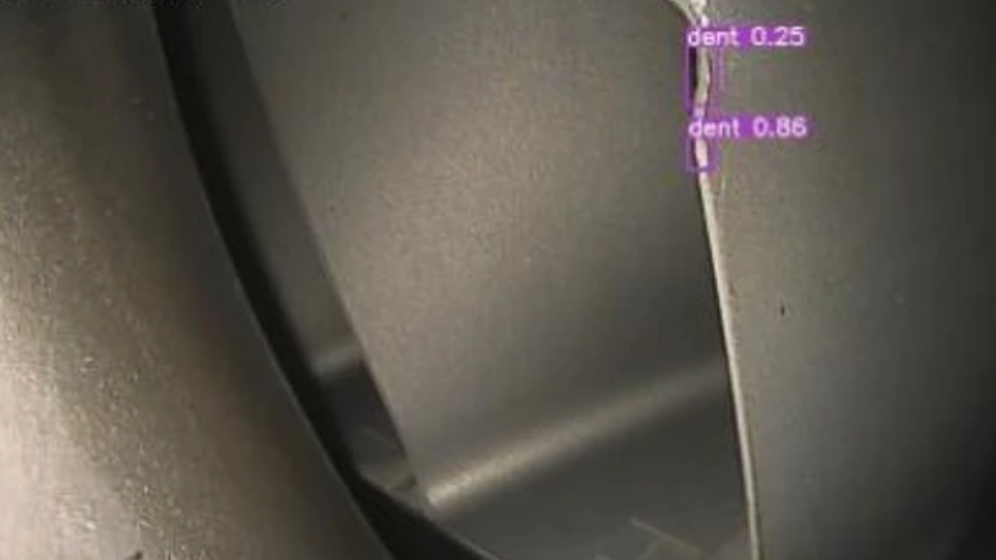
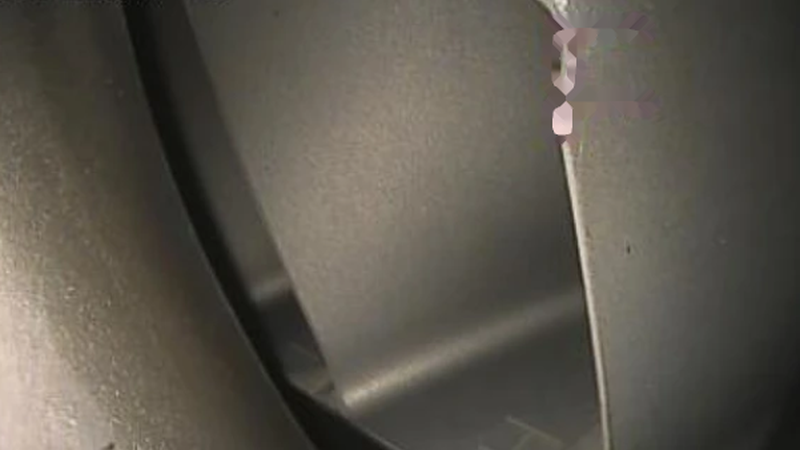
fix: 탐지 박스 제거 · 이상없음 사진 추가 · 옛 외판 사진 삭제
[1] 원본의 탐지 박스·라벨 제거
- 박스는 해당 논문 모델의 출력이지 우리 시스템 결과가 아니다. 그대로 두면 오해를 준다.
- 색 규칙(초록/보라/청록/살구)으로 검출해 주변 픽셀로 메웠다.
- corrosion-1 은 박스 색이 배경 갈색과 가까워 희미한 윤곽이 남았다. 더 지우면 사진이 뭉개진다.
- 원본이 600x440 이라 996 으로 늘리면 흐려져 800x450 으로 조정.

[2] 이상없음 = 결함 없는 블레이드 사진 (normal-1)
- AeBAD good 클래스. 결함을 읽을 필요가 없어 이 데이터셋으로 충분하다.
- DEFECT_KEY 에 '이상없음' -> normal 추가

[3] 옛 외판(skin) 사진 완전 제거
- assets/corrosion_al.jpg 삭제
- 정비사 촬영 화면의 기본 이미지 제거 (서버가 준 사진만 사용)
- 관리자 지식탭의 부식 폴백 제거 -> 사진 없으면 스키매틱
- 로봇 HUD 샘플 이미지도 블레이드 사진으로 교체

README 에 가공 내역 기재 (CC BY 는 변경 사항 표시 의무)

Changed region(s): [[0.6875, 0.0311, 0.8125, 0.3111]]

diff --git a/index.html b/index.html
@@ -285,7 +285,7 @@
 <div class="modal" id="modal"><div class="msheet">
   <div class="sh">🤖 로봇 촬영 <span style="font-size:11px;color:var(--dim);font-weight:400" id="mLoc"></span><span class="x" onclick="closeModal()">✕</span></div>
   <!-- 시뮬 연동: assets/sim.mp4 를 넣으면 로봇 촬영 화면이 자동으로 영상 재생 (없으면 정지 이미지 폴백). 규격: 풀HD·1배속·H.264 -->
-  <div class="cam"><div class="lbl"><span class="rc"></span>CAM-01 · HPC 블레이드</div><img src="assets/corrosion_al.jpg" alt="검사"><video id="simVid" muted playsinline loop preload="none" style="display:none"></video><span class="simtag" id="simTag" style="display:none">PyBullet 시뮬</span><div class="ov"></div><div class="scan"></div><div class="bb"><span class="bbt" id="bbt">CORROSION</span></div></div>
+  <div class="cam"><div class="lbl"><span class="rc"></span>CAM-01 · HPC 블레이드</div><img id="camImg" alt="검사" style="background:#0b1119"><video id="simVid" muted playsinline loop preload="none" style="display:none"></video><span class="simtag" id="simTag" style="display:none">PyBullet 시뮬</span><div class="ov"></div><div class="scan"></div><div class="bb"><span class="bbt" id="bbt">CORROSION</span></div></div>
   <div class="mbody" id="mBody"></div>
 </div></div>
 

diff --git a/manager.html b/manager.html
@@ -449,7 +449,7 @@ function evImage(defect, caseId){
   const pool=((S.cases&&S.cases.defectImages)||{})[DEFECT_KEY_FE[defect]]||[];
   let inner;
   if(pool.length){ const src=pool[hashId(caseId)%pool.length]; inner='<img src="'+src+'" style="width:100%;height:100%;object-fit:cover">'; }
-  else if(defect==='부식'){ inner='<img src="assets/corrosion_al.jpg" style="width:100%;height:100%;object-fit:cover">'; }
+
   else { inner='<svg viewBox="0 0 320 170" width="100%" height="100%" preserveAspectRatio="xMidYMid slice" style="display:block">'
     +'<defs><linearGradient id="mtl" x1="0" y1="0" x2="0" y2="1"><stop offset="0" stop-color="#4a515b"/><stop offset="1" stop-color="#333940"/></linearGradient></defs>'
     +'<rect width="320" height="170" fill="url(#mtl)"/><line x1="0" y1="46" x2="320" y2="46" stroke="#2c323a" stroke-width="2"/>'

diff --git a/server.js b/server.js
@@ -829,9 +829,10 @@ function scanDefectImages(){
 // 작업에 붙일 결함 사진 — 폴더를 스캔해 결함 종류에 맞는 것 중 작업 ID로 하나 고정.
 //   서버가 고르므로 정비사 화면과 관리자 화면이 같은 사진을 본다.
 const DEFECT_KEY = {'부식':'corrosion','균열':'crack','찍힘':'dent','마모':'wear',
-                    '손상':'damage','천공':'puncture','긁힘':'scratch'};
+                    '손상':'damage','천공':'puncture','긁힘':'scratch',
+                    '이상없음':'normal'};   // 결함 없는 블레이드 사진
 function pickDefectImage(w){
-  if(!w || w.defect==='이상없음') return null;
+  if(!w) return null;
   const pool = (scanDefectImages()[DEFECT_KEY[w.defect]]) || [];
   if(!pool.length) return null;
   return pool[_seed(w.id) % pool.length];

diff --git a/robot.html b/robot.html
@@ -89,7 +89,7 @@
   <div class="grid">
     <div class="cam">
       <div class="cam-label"><span class="rec"></span>CAM-01 · HPC 블레이드 (스탠드 거치)</div>
-      <img class="skin-img" src="assets/corrosion_al.jpg" alt="corrosion sample">
+      <img class="skin-img" src="assets/defects/crack-1.png" alt="blade defect sample">
       <!-- 시뮬 연동: assets/sim.mp4 를 넣으면 자동 재생 (없으면 정지 이미지 폴백). 규격: 풀HD·1배속·H.264 -->
       <video id="simVid" muted playsinline loop preload="none" style="display:none"></video>
       <span class="simtag" id="simTag" style="display:none">PyBullet 시뮬레이션</span>

diff --git a/assets/defects/README.md b/assets/defects/README.md
@@ -29,33 +29,43 @@
 
 ## 출처 · 라이선스 (Attribution) — **CC BY 4.0, 출처 표기 필수**
 
-| 파일 | 원본에 표기된 결함 | 검사 부위 |
-| --- | --- | --- |
-| `crack-1` | crack 0.40 / 0.87 | LPT 노즐 |
-| `dent-1` | dent 0.25 / 0.86 | HPC 3단 |
-| `dent-2` | dent 0.78 | 블레이드 리딩엣지 |
-| `corrosion-1` | **erosion 0.93** | HPT 노즐 |
-| `damage-1` | **TBC missing** | HPT 블레이드 |
+| 파일 | 원본 라벨 | 부위 | 출처 |
+| --- | --- | --- | --- |
+| `crack-1` | crack | LPT 노즐 | Sci Rep 12:13067 Fig.14 |
+| `dent-1` | dent | HPC 3단 | 〃 |
+| `dent-2` | dent | 리딩엣지 | 〃 |
+| `corrosion-1` | **erosion** | HPT 노즐 | 〃 |
+| `damage-1` | **TBC missing** | HPT 블레이드 | 〃 |
+| `normal-1` | 결함 없음 | 탈거 블레이드 | AeBAD `good` |
 
-**출처** — Li et al., *Deep learning-based defects detection of certain aero-engine
-blades and vanes with DDSC-YOLOv5s*, **Scientific Reports 12, 13067 (2022)**, Figure 14.
+**보어스코프 5장** — Li et al., *Deep learning-based defects detection of certain aero-engine
+blades and vanes with DDSC-YOLOv5s*, Scientific Reports 12, 13067 (2022), Figure 14.
 https://doi.org/10.1038/s41598-022-17340-7 · **CC BY 4.0**
 
-> 발표·제안 자료에 위 출처를 반드시 표기하세요.
+**정상 블레이드 1장** — Zhang et al., **AeBAD** (Aero-engine Blade Anomaly Detection).
+https://github.com/zhangzilongc/MMR · **CC BY 4.0**
 
-## 표기 주의 (시연 중 질문 대비)
+> 발표·제안 자료에 위 두 출처를 반드시 표기하세요.
 
-- **실제 보어스코프 검사 사진**입니다. 원본의 탐지 박스가 그대로 남아 있습니다
-  (해당 논문 모델의 탐지 결과이며, 우리 시스템의 출력이 아닙니다).
-- `corrosion-1` 은 원본 라벨이 **erosion(침식)**, `damage-1` 은 **TBC missing(코팅 손실)** 입니다.
-  공개 문헌에 항공엔진 블레이드 **부식** 사진이 사실상 없어, 표면 재료 손실로 가장 가까운 것을
+## 가공 내역 (CC BY 는 변경 사항 표시 의무)
+
+- 원본의 **탐지 박스·라벨을 제거**했습니다 (해당 논문 모델의 출력이지 우리 시스템 결과가 아니므로).
+  색 규칙으로 검출해 주변 픽셀로 메웠습니다. `corrosion-1` 은 박스 색이 배경과 가까워
+  **희미한 사각 윤곽이 남아 있습니다**.
+- 800×450 으로 크기를 맞췄습니다. `normal-1` 은 세로 원본을 눕혔습니다
+  (분해한 블레이드를 스탠드에 눕혀 촬영하는 PoC 시나리오와 맞추기 위함).
+
+## 표기 주의 (시연 질문 대비)
+
+- `corrosion-1` 원본 라벨은 **erosion(침식)**, `damage-1` 은 **TBC missing(코팅 손실)** 입니다.
+  공개 문헌에 항공엔진 블레이드 **부식** 사진이 사실상 없어 표면 재료 손실로 가장 가까운 것을
   배정했습니다. 물어보면 그대로 답하면 됩니다.
-- 사진이 없는 결함(마모·긁힘 등)은 자동으로 **스키매틱 도형**으로 대체됩니다.
+- 사진이 없는 결함(마모·긁힘)은 **스키매틱 도형**으로 대체됩니다.
 
 ## 검토했으나 쓰지 않은 것
 
-- **AeBAD** (github.com/zhangzilongc/MMR, CC BY 4.0) — 실물 블레이드 5,570장.
-  ground_truth 마스크로 결함만 정확히 잘라내 봤으나, 결함이 도색된 시편 위의 미세한 형상이라
-  **화면에서 균열·부식으로 읽히지 않았습니다.** 이상탐지 학습용이지 사람에게 보여주는 사진이 아닙니다.
-- **BladeSynth** (figshare, CC BY) — 합성 렌더링 25.7GB. 실사진 아님.
-- 풍력 발전 블레이드 데이터셋 다수 — 재질·크기가 달라 항공엔진 제안에 부적합.
+- **AeBAD** 결함 이미지 — ground_truth 마스크로 결함만 잘라내 봤으나, 도색된 시편의 미세 형상이라
+  화면에서 균열·부식으로 읽히지 않았습니다. 이상탐지 학습용이지 사람에게 보여주는 사진이 아닙니다.
+  (정상 블레이드 `normal-1` 만 채택 — 결함을 읽을 필요가 없으므로)
+- **BladeSynth** (figshare, CC BY) — 합성 렌더링 25.7GB.
+- 풍력 발전 블레이드 데이터셋 — 재질·크기가 달라 항공엔진 제안에 부적합.
